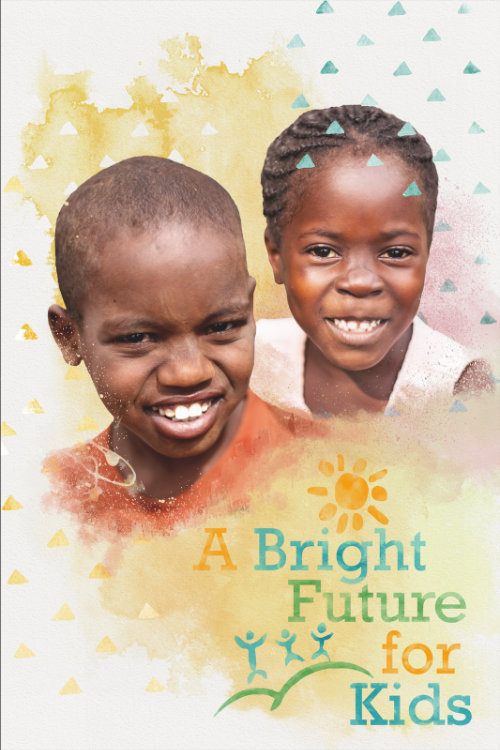
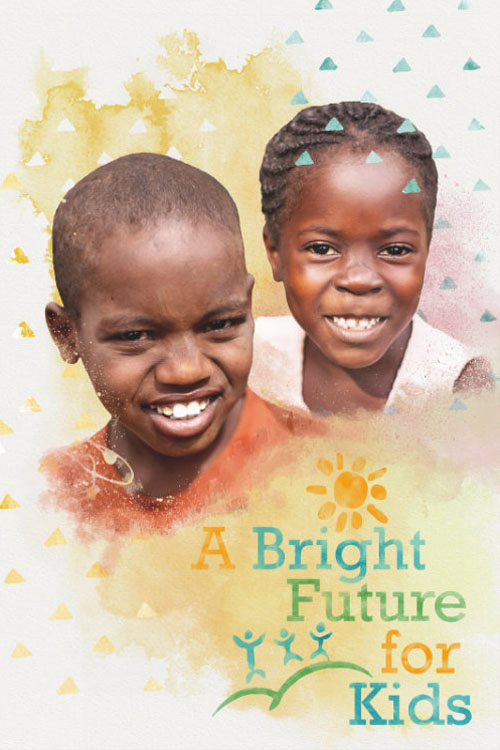
Content Updates

diff --git a/src/components/projects/ABrightFutureForKids.vue b/src/components/projects/ABrightFutureForKids.vue
@@ -41,12 +41,8 @@
       </div>
       <div class="fk__project__testimonial__quote">
         <h3 class="fk__project__testimonial__quote__heading">Client Testimonial</h3>
-        <p class="fk__project__testimonial__quote__copy">Derek & I knew one another way back before even we though we are going to be traveling to Kenya , organizations whose common purpose is to do kingdom work , according to our callings.
-Here is my personal experience of our together trip to Kenya .
-Derek and I had spend at least 2 hours of an uninterrupted discussion on how we were called into what we do  . Traveling with Derek was more than filming ; for me it was being sent to do  for kingdom work . Derek has been an encourager but also challenger . Spending ten days in Kenya , gave us great opportunity to know one another in a deeper level & get connected . Serving God in was what I experienced from Derek . Derek have passionately served & performed an exlecelkent work through his filming!
-        </br></br>The impacts of his edited videos have just started , I believe these videos will give us a ways of exposing the dark places inways & bring powerful massages .
-God has crossed our paths with Kent & Derek way before  the enception of Famous King .
-has crossed our path has greater purpose , I thank  God ; grateful  for coming alongside of ABF4K & making such great videos!!</p>
+        <p class="fk__project__testimonial__quote__copy">Traveling with Derek was more than filming; for me it was being sent to do kingdom work along side a brother in Christ.  During the whole video production process Derek took much time to have lengthy discussions on not only the project for him to understand the whole story of the organization and to try to understand every detail.  Derek serves passionately, gives his everything, and performed excellent work for our organization that has been much needed.
+        </br></br>The impact of the final videos has just begun for us, but I believe these videos that Famous King has provided for us will give a way of exposing the dark places in the areas we work and bring a powerful message.  God for sure crossed our paths for a reason.  I thank God and am grateful for Famous King to come along side of ABF4K.  We would not have been able to videos or videos of such quality otherwise.</p>
       </div>
     </div>
 
@@ -99,7 +95,7 @@ export default {
     z-index: -2;
   }
   .cover{
-    background-image: linear-gradient(to bottom left, transparentize($black, 0.4),transparentize($black, 0.5)), url('../../assets/projects/velvet-ashes/cover.jpg');
+    background-image: linear-gradient(to bottom left, transparentize($black, 0.4),transparentize($black, 0.5)), url('../../assets/projects/a-bright-future-for-kids/cover.jpg');
     background-size: cover;
     background-position: top;
     height: 188px; //300px (height of poster) - header height

diff --git a/src/components/Mission.vue b/src/components/Mission.vue
@@ -8,8 +8,8 @@
     <div class="fk__team__container">
       <div class="fk__team__info fk__team__info--main">
         <p class="fk__team__info__copy">Famous King's mission is to share who the one true God is to the world and to help make him Famous by using film and creative media.</p>
-        <p class="fk__team__info__copy">The vision of Famous King is to help make God famous throughout the world by using creative media arts in engaging ways. Such projects would be promotional videos for non-profit organizations who are actively expressing who God is through their existing work, documentaries expressing characteristics of God and how he works with his people, as well as Narrative works of fiction that help express God's characteristics and Truth in the lives of his people.</p>
-        <p class="fk__team__info__copy">Famous King is committed to producing works of excellence with a frugal spending mindset.   Video production can be a costly process that if not done properly can be a wasteful process as well.  Using a thoughtful and prayerful process Famous King makes decisions on the belief of overall impact of the project compared to cost as so we can create the most effective products with the least amount of dollars spent.</p>
+        <p class="fk__team__info__copy">Our vision is that Famous King would help engage people in making God famous through project such as promotional videos for non-profit organizations who are actively expressing who God is through their existing work, documentaries expressing characteristics of God and how he works with his people, as well as Narrative works of fiction that help express God's characteristics and Truth in the lives of his people.</p>
+        <p class="fk__team__info__copy">Famous King is committed to producing works of excellence with a frugal spending mindset. Video production can be a costly process and if not done with an efficient mindset it is a process that can be easily wasteful ending up costing many more dollars and time than really needed.  Using a thoughtful and prayerful process Famous King makes decisions on the belief of overall impact of the project compared to cost as so we can create the most effective products with the least amount of dollars spent.</p>
       </div>
       <div class="fk__team__member">
         <img class="fk__team__member__head" src="../assets/team/kent.jpg"/>

diff --git a/src/components/projects/VelvetAshes.vue b/src/components/projects/VelvetAshes.vue
@@ -12,7 +12,7 @@
           <p class="fk__project__top__info__year">2016-2017</p>
           <p class="fk__project__top__info__details">Promotional - Retreat Content</p>
           <div class="fk__project__top__info__description">
-            <p>We are an online community of women serving overseas.  Velvet Ashes is here to connect the hearts of women who are separated by geography but bound together by the life of serving overseas.  It’s a place where we can link arms with one another and grab hold of the promise of Him who said, “I will give you a full life in the {seemingly} emptiest of places.” (Isaiah 58:11)</p>
+            <p>Velvet Ashes is an online community of women serving overseas.  Velvet Ashes exists to connect the hearts of women who are separated by geography but bound together by the life of serving overseas.  It’s a place where we can link arms with one another and grab hold of the promise of Him who said, “I will give you a full life in the {seemingly} emptiest of places.” (Isaiah 58:11)</p>
           </div>
         </div>
       </div>

diff --git a/src/components/Projects.vue b/src/components/Projects.vue
@@ -189,6 +189,11 @@ export default {
         border-radius: 10px;
         box-shadow: 0px 0px 20px transparentize($black, 0.8);
         transition: box-shadow 0.2s ease-out;
+
+        /* only the last one needs this padding */
+        &:last-child{
+          margin-right: 2rem !important;
+        }
       }
       &__title{
         font-size: 0.9rem;
